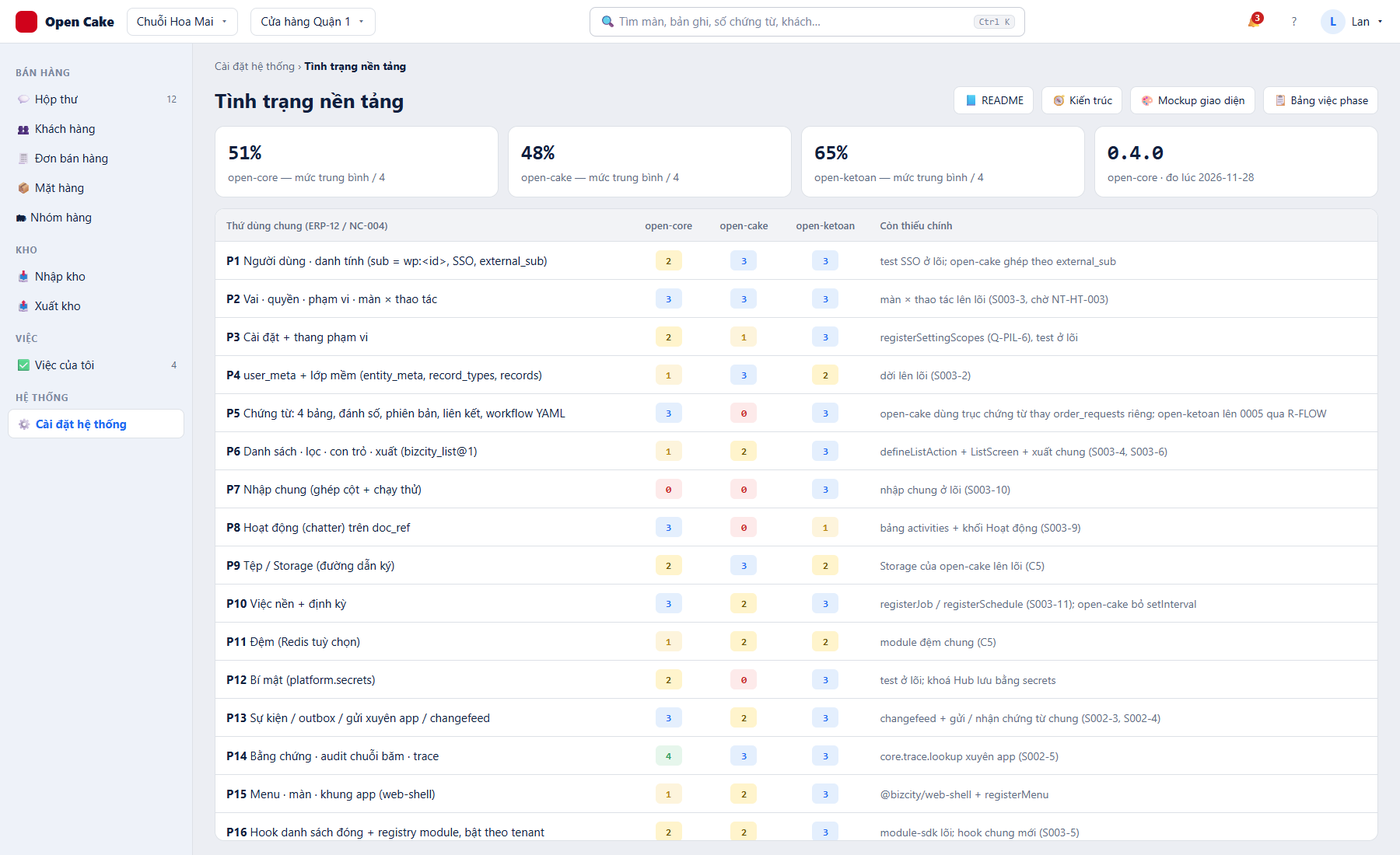
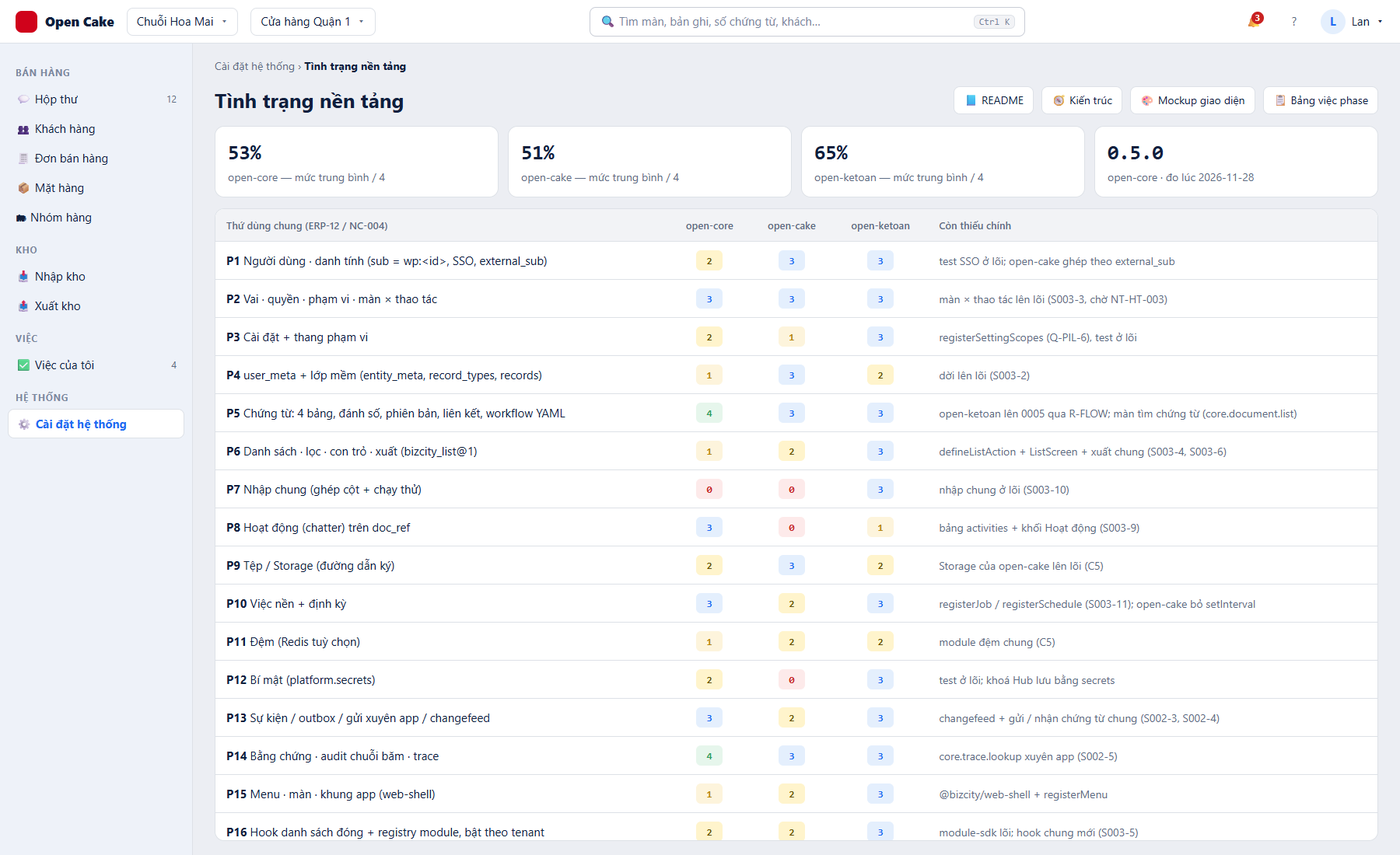
docs(scoreboard): chứng từ — open-cake dùng trục (mức 3), open-core mức 4; open-core 53 %, open-cake 51 %

Changed region(s): [[0.4667, 0.2473, 0.9333, 0.9891], [0.3733, 0.1545, 0.4044, 0.1855]]

diff --git a/docs/ui/mockup-src/web-shell.html b/docs/ui/mockup-src/web-shell.html
@@ -697,7 +697,7 @@
   <span class="demo">Dữ liệu minh hoạ</span>
 </section>
 
-<script id="sb" type="application/json">{"$comment":"[2026-11-28 06:58 PM Johnny Chu - Chu Hoàng Anh] PHASE-003 S003-13 — scoreboard mã ↔ tài liệu (ERP-12 của NC-005, chi tiết 20 mục). Mức 0 chưa có · 1 mới tài liệu · 2 có một phần · 3 có mã + test ở app đó · 4 ở open-core, có test, app đang dùng. Đo lần đầu bằng rà soát chỉ đọc (open-core main 9be302f + nhánh 0.4.0, open-cake 7436d28, open-ketoan dev 0237a4d). Sửa tay khi có bằng chứng mới rồi chạy node tools/scoreboard.mjs.","version":"0.5.0","measuredAt":"2026-11-28","apps":["open-core","open-cake","open-ketoan"],"primitives":[{"id":"P1","erp":"E-1","name":"Người dùng · danh tính (sub = wp:<id>, SSO, external_sub)","levels":{"open-core":2,"open-cake":3,"open-ketoan":3},"evidence":{"open-core":"packages/platform/src/core/auth.ts, security/tokens.ts, db/migrations/0003_platform_external_sub.sql — open-cake đang dùng; chưa test SSO ở lõi","open-cake":"apps/api/src/auth/routes.ts (/api/v1/auth/wp-sso), test/auth.http.test.ts — chưa dùng external_sub","open-ketoan":"apps/api/src/modules/auth/wp-sso.ts, 0183_nguoi_dung_external_sub.sql, test/wp-sso-sub-aud.test.ts"},"gap":"test SSO ở lõi; open-cake ghép theo external_sub"},{"id":"P2","erp":"E-2","name":"Vai · quyền · phạm vi · màn × thao tác","levels":{"open-core":3,"open-cake":3,"open-ketoan":3},"evidence":{"open-core":"core/authz/*, roles.ts, 0002_platform_vai_theo_app.sql, test/roles.test.mjs, open-cake dùng (vai: mức 4) — màn × thao tác chưa có ở lõi (mức 1, S003-3 ⛔)","open-cake":"apps/api/src/auth/authz.ts, staff.ts, care/scope.ts, test/scope.http.test.ts","open-ketoan":"modules/access/man-hinh.ts, man-hinh-module.ts, test/phan-quyen-man-hinh.test.ts"},"gap":"màn × thao tác lên lõi (S003-3, chờ NT-HT-003)"},{"id":"P3","erp":"E-3","name":"Cài đặt + thang phạm vi","levels":{"open-core":2,"open-cake":1,"open-ketoan":3},"evidence":{"open-core":"core/settings.ts, setting_values ở 0001 — chưa test, thang còn cứng accounting_unit","open-cake":"db/migrations/0103_flex.sql (chỉ ghi chú dùng setting_values)","open-ketoan":"0074_gia_tri_cau_hinh.sql, test/cau-hinh-gia-tri.test.ts"},"gap":"registerSettingScopes (Q-PIL-6), test ở lõi"},{"id":"P4","erp":"E-3","name":"user_meta + lớp mềm (entity_meta, record_types, records)","levels":{"open-core":1,"open-cake":3,"open-ketoan":2},"evidence":{"open-core":"chỉ nhắc ở core/authz-manifest.ts; S003-2 ☐","open-cake":"0103_flex.sql, apps/api/src/records.ts, test/records.http.test.ts","open-ketoan":"entity_attributes theo ngày (0087, 0168), chưa có lớp mềm"},"gap":"dời lên lõi (S003-2)"},{"id":"P5","erp":"E-4","name":"Chứng từ: 4 bảng, đánh số, phiên bản, liên kết, workflow YAML","levels":{"open-core":3,"open-cake":0,"open-ketoan":3},"evidence":{"open-core":"core/documents.ts, document-spine.ts (defineDocumentType, tạo / sửa nháp / chuyển / lưu trữ, tiền tệ + tỷ giá), workflow.ts, 0005 — test/document-spine.test.mjs, test/workflow.test.mjs, test/documents-events.test.mjs (cấp số, phiên bản, DocLink, RLS) chạy thật trên Postgres; open-cake chưa dùng","open-cake":"—","open-ketoan":"test/documents-common.test.ts, workflow.test.ts, dinh-kem-chung-tu.test.ts"},"gap":"open-cake dùng trục chứng từ thay order_requests riêng; open-ketoan lên 0005 qua R-FLOW"},{"id":"P6","erp":"E-5","name":"Danh sách · lọc · con trỏ · xuất (bizcity_list@1)","levels":{"open-core":1,"open-cake":2,"open-ketoan":3},"evidence":{"open-core":"chuẩn bizcity_list@1 0.2 (bizcity-platform #39), S003-4 ☐","open-cake":"con trỏ ở care/inbox.ts, screens/Contacts.tsx — chưa xuất","open-ketoan":"apps/web/src/components/DataGrid.tsx (xuất xlsx), test/excel-export-all.test.ts — khuôn riêng, chưa theo bizcity_list@1"},"gap":"defineListAction + ListScreen + xuất chung (S003-4, S003-6)"},{"id":"P7","erp":"E-5","name":"Nhập chung (ghép cột + chạy thử)","levels":{"open-core":0,"open-cake":0,"open-ketoan":3},"evidence":{"open-core":"","open-cake":"","open-ketoan":"modules/catalog/catalog-import.ts (dryRun), NhapExcelWizard.tsx, test/catalog-import.test.ts — riêng danh mục"},"gap":"nhập chung ở lõi (S003-10)"},{"id":"P8","erp":"E-6","name":"Hoạt động (chatter) trên doc_ref","levels":{"open-core":3,"open-cake":0,"open-ketoan":1},"evidence":{"open-core":"document_activities (0005, chỉ thêm) + documentSpine.note / activities, ctx.documents — test/document-spine.test.mjs; chưa màn web-shell","open-cake":"","open-ketoan":"chỉ notifications + document_attachments, chưa ghi chú / việc"},"gap":"bảng activities + khối Hoạt động (S003-9)"},{"id":"P9","erp":"E-7","name":"Tệp / Storage (đường dẫn ký)","levels":{"open-core":2,"open-cake":3,"open-ketoan":2},"evidence":{"open-core":"documents.ts lưu đĩa DATA_DIR — chưa đường dẫn ký","open-cake":"apps/api/src/storage/{local,s3,routes,sniff}.ts, 0109_files.sql, test/storage.test.ts, files.http.test.ts","open-ketoan":"đính kèm có test, chưa lớp storage / đường dẫn ký"},"gap":"Storage của open-cake lên lõi (C5)"},{"id":"P10","erp":"E-8","name":"Việc nền + định kỳ","levels":{"open-core":3,"open-cake":2,"open-ketoan":3},"evidence":{"open-core":"core/events.ts (tickClock, thử lại, dead) — thử lại → dead có test (test/documents-events.test.mjs); chưa API việc / lịch","open-cake":"3 vòng setInterval ở apps/api/src/server.ts:87-91 (trái luật 'chỉ một đồng hồ')","open-ketoan":"test/events.test.ts, modules/system/loi-he-thong.ts"},"gap":"registerJob / registerSchedule (S003-11); open-cake bỏ setInterval"},{"id":"P11","erp":"E-9","name":"Đệm (Redis tuỳ chọn)","levels":{"open-core":1,"open-cake":2,"open-ketoan":2},"evidence":{"open-core":"BIZCITY-CACHE-v1; chỉ đệm lẻ (module-registry 30 s, authz)","open-cake":"đệm lẻ ở orders/link.ts, partner.ts","open-ketoan":"đệm lẻ, test/site-cache.test.ts"},"gap":"module đệm chung (C5)"},{"id":"P12","erp":"E-10","name":"Bí mật (platform.secrets)","levels":{"open-core":2,"open-cake":0,"open-ketoan":3},"evidence":{"open-core":"core/secrets.ts, 0004_platform_secrets.sql — chưa test ở lõi","open-cake":"","open-ketoan":"0184_tenant_secrets.sql, test/secrets.test.ts"},"gap":"test ở lõi; khoá Hub lưu bằng secrets"},{"id":"P13","erp":"E-11","name":"Sự kiện / outbox / gửi xuyên app / changefeed","levels":{"open-core":3,"open-cake":2,"open-ketoan":3},"evidence":{"open-core":"core/events.ts (outbox, SKIP LOCKED) — outbox, dedupeKey, giao một lần, thử lại → dead có test chạy thật (test/documents-events.test.mjs); chưa registerSyncFeed","open-cake":"outbox riêng channel_commands (0106), chưa /api/v1/sync","open-ketoan":"modules/sync/sync.routes.ts, test/spine-changefeed.test.ts"},"gap":"changefeed + gửi / nhận chứng từ chung (S002-3, S002-4)"},{"id":"P14","erp":"E-11","name":"Bằng chứng · audit chuỗi băm · trace","levels":{"open-core":4,"open-cake":3,"open-ketoan":3},"evidence":{"open-core":"chuỗi băm ở 0001, test/nen-tang.test.mjs; core/tracing.ts, audit.ts — open-cake dùng tracing","open-cake":"apps/api/src/runtime.ts ghi audit_logs, test/evidence.http.test.ts","open-ketoan":"test/evidence.test.ts, evidence-seal.test.ts, truy-vet.test.ts"},"gap":"core.trace.lookup xuyên app (S002-5)"},{"id":"P15","erp":"E-12","name":"Menu · màn · khung app (web-shell)","levels":{"open-core":1,"open-cake":2,"open-ketoan":3},"evidence":{"open-core":"mockup docs/ui/mockup-src/web-shell.html (chờ duyệt); S003-3 ⛔, S003-6 ☐","open-cake":"apps/web/src/app/Shell.tsx, route.ts, permissions.tsx","open-ketoan":"apps/web/src/layout/menu.ts, SideNav.tsx, API man-hinh có test — khuôn riêng"},"gap":"@bizcity/web-shell + registerMenu"},{"id":"P16","erp":"E-12","name":"Hook danh sách đóng + registry module, bật theo tenant","levels":{"open-core":2,"open-cake":2,"open-ketoan":3},"evidence":{"open-core":"core/hooks.ts (1 hook), module-registry.ts — chưa test, open-cake chưa dùng","open-cake":"bizcity.app.json, bizcity.authz.json, test/authz-manifest.test.ts — chưa hook / bật module","open-ketoan":"test/module-lifecycle.test.ts, sdk-module-host.test.ts, packages/module-sdk"},"gap":"module-sdk lõi; hook chung mới (S003-5)"},{"id":"P17","erp":"—","name":"Nhiều site: registry, /_sites/v1, migration theo nguồn","levels":{"open-core":3,"open-cake":2,"open-ketoan":3},"evidence":{"open-core":"db/migrate.ts (source, coveredBy), test/migrate.test.mjs 8 ca, open-cake dùng (migration: mức 4) — route /_sites/v1 còn ở app (mức 2)","open-cake":"dùng migrate / site của lõi, chưa cấp site","open-ketoan":"modules/sites/provisioning.routes.ts, test/site-provisioner.test.ts, site-migrate.test.ts"},"gap":"/_sites/v1 khung vào @bizcity/server (NC-003 C7)"},{"id":"P18","erp":"—","name":"API: defineAction → REST + MCP, Idempotency-Key, danh mục lỗi","levels":{"open-core":3,"open-cake":3,"open-ketoan":3},"evidence":{"open-core":"core/actions.ts, errors.ts, http.ts — test/actions-runtime.test.mjs chạy thật (quyền, khuôn input, Idempotency-Key, bằng chứng, huỷ giao dịch, chạy thử); open-cake chỉ dùng errors / http","open-cake":"runtime.ts riêng (spec → REST, action_requests), packages/action-client test — chưa MCP","open-ketoan":"test/actions.test.ts, action-meta.test.ts, mcp.test.ts"},"gap":"test lõi; open-cake chuyển sang defineAction của lõi (C5)"},{"id":"P19","erp":"E-12","name":"Bốn bước kết nối open-hub (bizcity_hub_setup@1)","levels":{"open-core":1,"open-cake":2,"open-ketoan":1},"evidence":{"open-core":"chuẩn HUB-SETUP 0.1; chưa @bizcity/server, chưa /api/v1/setup/*","open-cake":"apps/web/src/screens/channel-setup/SetupSteps.tsx (4 bước Zalo) — chưa API chuẩn","open-ketoan":"chỉ thiết kế (CELL-CONNECT)"},"gap":"/api/v1/setup/* + SetupScreen"},{"id":"P20","erp":"E-12","name":"Hệ thiết kế giao diện: token, ui-kit, bốn trạng thái, i18n","levels":{"open-core":1,"open-cake":3,"open-ketoan":2},"evidence":{"open-core":"bizcity_ux@1 0.1 + mockup chờ duyệt; chưa gói ui-kit","open-cake":"packages/ui-kit/src/tokens.css, i18n/vi/*, test/i18n.test.ts, sc-cake-web.test.ts","open-ketoan":"packages/ui-kit/src/{grid,steps,doc-sheet}.tsx — chưa i18n"},"gap":"@bizcity/ui-kit + token một nguồn (S003-12)"}],"topGaps":["Mã chạy của lõi chưa có test ở open-core (actions, events, documents, workflow, settings, secrets, hooks) — chỉ được kiểm ở bản chép của open-ketoan ⇒ phát hành lõi có thể gãy âm thầm","open-cake chưa dùng runtime action / sự kiện / chứng từ của lõi (runtime.ts, outbox channel_commands, 3 setInterval riêng) ⇒ chuỗi cake → POS → kế toán chưa có đường chung","Chưa có khung changefeed ở lõi (registerSyncFeed) — /api/v1/sync chỉ ở open-ketoan","Danh sách chung (defineListAction, ListScreen, xuất CSV / XLSX / JSON) chưa có ở đâu theo bizcity_list@1","Chưa có web-shell / registry menu / màn ở lõi — khung và ui-kit của open-ketoan và open-cake đã tách nhau","Màn × thao tác chỉ có ở open-ketoan","Bốn bước kết nối open-hub chưa có API ở đâu","Lớp mềm (user_meta …) và Storage chỉ ở open-cake, chưa vào migration lõi","Nhập chung chỉ ở danh mục open-ketoan; chatter chưa có ở đâu","Hạ tầng chéo chưa đủ: đệm chung, API việc nền / lịch, thang phạm vi cài đặt cứng accounting_unit, /_sites/v1 còn ở app"]}</script>
+<script id="sb" type="application/json">{"$comment":"[2026-11-28 06:58 PM Johnny Chu - Chu Hoàng Anh] PHASE-003 S003-13 — scoreboard mã ↔ tài liệu (ERP-12 của NC-005, chi tiết 20 mục). Mức 0 chưa có · 1 mới tài liệu · 2 có một phần · 3 có mã + test ở app đó · 4 ở open-core, có test, app đang dùng. Đo lần đầu bằng rà soát chỉ đọc (open-core main 9be302f + nhánh 0.4.0, open-cake 7436d28, open-ketoan dev 0237a4d). Sửa tay khi có bằng chứng mới rồi chạy node tools/scoreboard.mjs.","version":"0.5.0","measuredAt":"2026-11-28","apps":["open-core","open-cake","open-ketoan"],"primitives":[{"id":"P1","erp":"E-1","name":"Người dùng · danh tính (sub = wp:<id>, SSO, external_sub)","levels":{"open-core":2,"open-cake":3,"open-ketoan":3},"evidence":{"open-core":"packages/platform/src/core/auth.ts, security/tokens.ts, db/migrations/0003_platform_external_sub.sql — open-cake đang dùng; chưa test SSO ở lõi","open-cake":"apps/api/src/auth/routes.ts (/api/v1/auth/wp-sso), test/auth.http.test.ts — chưa dùng external_sub","open-ketoan":"apps/api/src/modules/auth/wp-sso.ts, 0183_nguoi_dung_external_sub.sql, test/wp-sso-sub-aud.test.ts"},"gap":"test SSO ở lõi; open-cake ghép theo external_sub"},{"id":"P2","erp":"E-2","name":"Vai · quyền · phạm vi · màn × thao tác","levels":{"open-core":3,"open-cake":3,"open-ketoan":3},"evidence":{"open-core":"core/authz/*, roles.ts, 0002_platform_vai_theo_app.sql, test/roles.test.mjs, open-cake dùng (vai: mức 4) — màn × thao tác chưa có ở lõi (mức 1, S003-3 ⛔)","open-cake":"apps/api/src/auth/authz.ts, staff.ts, care/scope.ts, test/scope.http.test.ts","open-ketoan":"modules/access/man-hinh.ts, man-hinh-module.ts, test/phan-quyen-man-hinh.test.ts"},"gap":"màn × thao tác lên lõi (S003-3, chờ NT-HT-003)"},{"id":"P3","erp":"E-3","name":"Cài đặt + thang phạm vi","levels":{"open-core":2,"open-cake":1,"open-ketoan":3},"evidence":{"open-core":"core/settings.ts, setting_values ở 0001 — chưa test, thang còn cứng accounting_unit","open-cake":"db/migrations/0103_flex.sql (chỉ ghi chú dùng setting_values)","open-ketoan":"0074_gia_tri_cau_hinh.sql, test/cau-hinh-gia-tri.test.ts"},"gap":"registerSettingScopes (Q-PIL-6), test ở lõi"},{"id":"P4","erp":"E-3","name":"user_meta + lớp mềm (entity_meta, record_types, records)","levels":{"open-core":1,"open-cake":3,"open-ketoan":2},"evidence":{"open-core":"chỉ nhắc ở core/authz-manifest.ts; S003-2 ☐","open-cake":"0103_flex.sql, apps/api/src/records.ts, test/records.http.test.ts","open-ketoan":"entity_attributes theo ngày (0087, 0168), chưa có lớp mềm"},"gap":"dời lên lõi (S003-2)"},{"id":"P5","erp":"E-4","name":"Chứng từ: 4 bảng, đánh số, phiên bản, liên kết, workflow YAML","levels":{"open-core":4,"open-cake":3,"open-ketoan":3},"evidence":{"open-core":"core/documents.ts, document-spine.ts (defineDocumentType, tạo / sửa nháp / chuyển / lưu trữ, tiền tệ + tỷ giá), workflow.ts, 0005 — test/document-spine.test.mjs, test/workflow.test.mjs, test/documents-events.test.mjs (cấp số, phiên bản, DocLink, RLS) chạy thật trên Postgres; open-cake chưa dùng","open-cake":"apps/api/src/orders/document.ts — yêu cầu đặt hàng phản chiếu lên trục chứng từ (đầu phiếu + hoạt động), test/orders.http.test.ts; chưa dùng cấp số / workflow của lõi (trạng thái do cửa hàng gửi về)","open-ketoan":"test/documents-common.test.ts, workflow.test.ts, dinh-kem-chung-tu.test.ts"},"gap":"open-ketoan lên 0005 qua R-FLOW; màn tìm chứng từ (core.document.list)"},{"id":"P6","erp":"E-5","name":"Danh sách · lọc · con trỏ · xuất (bizcity_list@1)","levels":{"open-core":1,"open-cake":2,"open-ketoan":3},"evidence":{"open-core":"chuẩn bizcity_list@1 0.2 (bizcity-platform #39), S003-4 ☐","open-cake":"con trỏ ở care/inbox.ts, screens/Contacts.tsx — chưa xuất","open-ketoan":"apps/web/src/components/DataGrid.tsx (xuất xlsx), test/excel-export-all.test.ts — khuôn riêng, chưa theo bizcity_list@1"},"gap":"defineListAction + ListScreen + xuất chung (S003-4, S003-6)"},{"id":"P7","erp":"E-5","name":"Nhập chung (ghép cột + chạy thử)","levels":{"open-core":0,"open-cake":0,"open-ketoan":3},"evidence":{"open-core":"","open-cake":"","open-ketoan":"modules/catalog/catalog-import.ts (dryRun), NhapExcelWizard.tsx, test/catalog-import.test.ts — riêng danh mục"},"gap":"nhập chung ở lõi (S003-10)"},{"id":"P8","erp":"E-6","name":"Hoạt động (chatter) trên doc_ref","levels":{"open-core":3,"open-cake":0,"open-ketoan":1},"evidence":{"open-core":"document_activities (0005, chỉ thêm) + documentSpine.note / activities, ctx.documents — test/document-spine.test.mjs; chưa màn web-shell","open-cake":"","open-ketoan":"chỉ notifications + document_attachments, chưa ghi chú / việc"},"gap":"bảng activities + khối Hoạt động (S003-9)"},{"id":"P9","erp":"E-7","name":"Tệp / Storage (đường dẫn ký)","levels":{"open-core":2,"open-cake":3,"open-ketoan":2},"evidence":{"open-core":"documents.ts lưu đĩa DATA_DIR — chưa đường dẫn ký","open-cake":"apps/api/src/storage/{local,s3,routes,sniff}.ts, 0109_files.sql, test/storage.test.ts, files.http.test.ts","open-ketoan":"đính kèm có test, chưa lớp storage / đường dẫn ký"},"gap":"Storage của open-cake lên lõi (C5)"},{"id":"P10","erp":"E-8","name":"Việc nền + định kỳ","levels":{"open-core":3,"open-cake":2,"open-ketoan":3},"evidence":{"open-core":"core/events.ts (tickClock, thử lại, dead) — thử lại → dead có test (test/documents-events.test.mjs); chưa API việc / lịch","open-cake":"3 vòng setInterval ở apps/api/src/server.ts:87-91 (trái luật 'chỉ một đồng hồ')","open-ketoan":"test/events.test.ts, modules/system/loi-he-thong.ts"},"gap":"registerJob / registerSchedule (S003-11); open-cake bỏ setInterval"},{"id":"P11","erp":"E-9","name":"Đệm (Redis tuỳ chọn)","levels":{"open-core":1,"open-cake":2,"open-ketoan":2},"evidence":{"open-core":"BIZCITY-CACHE-v1; chỉ đệm lẻ (module-registry 30 s, authz)","open-cake":"đệm lẻ ở orders/link.ts, partner.ts","open-ketoan":"đệm lẻ, test/site-cache.test.ts"},"gap":"module đệm chung (C5)"},{"id":"P12","erp":"E-10","name":"Bí mật (platform.secrets)","levels":{"open-core":2,"open-cake":0,"open-ketoan":3},"evidence":{"open-core":"core/secrets.ts, 0004_platform_secrets.sql — chưa test ở lõi","open-cake":"","open-ketoan":"0184_tenant_secrets.sql, test/secrets.test.ts"},"gap":"test ở lõi; khoá Hub lưu bằng secrets"},{"id":"P13","erp":"E-11","name":"Sự kiện / outbox / gửi xuyên app / changefeed","levels":{"open-core":3,"open-cake":2,"open-ketoan":3},"evidence":{"open-core":"core/events.ts (outbox, SKIP LOCKED) — outbox, dedupeKey, giao một lần, thử lại → dead có test chạy thật (test/documents-events.test.mjs); chưa registerSyncFeed","open-cake":"outbox riêng channel_commands (0106), chưa /api/v1/sync","open-ketoan":"modules/sync/sync.routes.ts, test/spine-changefeed.test.ts"},"gap":"changefeed + gửi / nhận chứng từ chung (S002-3, S002-4)"},{"id":"P14","erp":"E-11","name":"Bằng chứng · audit chuỗi băm · trace","levels":{"open-core":4,"open-cake":3,"open-ketoan":3},"evidence":{"open-core":"chuỗi băm ở 0001, test/nen-tang.test.mjs; core/tracing.ts, audit.ts — open-cake dùng tracing","open-cake":"apps/api/src/runtime.ts ghi audit_logs, test/evidence.http.test.ts","open-ketoan":"test/evidence.test.ts, evidence-seal.test.ts, truy-vet.test.ts"},"gap":"core.trace.lookup xuyên app (S002-5)"},{"id":"P15","erp":"E-12","name":"Menu · màn · khung app (web-shell)","levels":{"open-core":1,"open-cake":2,"open-ketoan":3},"evidence":{"open-core":"mockup docs/ui/mockup-src/web-shell.html (chờ duyệt); S003-3 ⛔, S003-6 ☐","open-cake":"apps/web/src/app/Shell.tsx, route.ts, permissions.tsx","open-ketoan":"apps/web/src/layout/menu.ts, SideNav.tsx, API man-hinh có test — khuôn riêng"},"gap":"@bizcity/web-shell + registerMenu"},{"id":"P16","erp":"E-12","name":"Hook danh sách đóng + registry module, bật theo tenant","levels":{"open-core":2,"open-cake":2,"open-ketoan":3},"evidence":{"open-core":"core/hooks.ts (1 hook), module-registry.ts — chưa test, open-cake chưa dùng","open-cake":"bizcity.app.json, bizcity.authz.json, test/authz-manifest.test.ts — chưa hook / bật module","open-ketoan":"test/module-lifecycle.test.ts, sdk-module-host.test.ts, packages/module-sdk"},"gap":"module-sdk lõi; hook chung mới (S003-5)"},{"id":"P17","erp":"—","name":"Nhiều site: registry, /_sites/v1, migration theo nguồn","levels":{"open-core":3,"open-cake":2,"open-ketoan":3},"evidence":{"open-core":"db/migrate.ts (source, coveredBy), test/migrate.test.mjs 8 ca, open-cake dùng (migration: mức 4) — route /_sites/v1 còn ở app (mức 2)","open-cake":"dùng migrate / site của lõi, chưa cấp site","open-ketoan":"modules/sites/provisioning.routes.ts, test/site-provisioner.test.ts, site-migrate.test.ts"},"gap":"/_sites/v1 khung vào @bizcity/server (NC-003 C7)"},{"id":"P18","erp":"—","name":"API: defineAction → REST + MCP, Idempotency-Key, danh mục lỗi","levels":{"open-core":3,"open-cake":3,"open-ketoan":3},"evidence":{"open-core":"core/actions.ts, errors.ts, http.ts — test/actions-runtime.test.mjs chạy thật (quyền, khuôn input, Idempotency-Key, bằng chứng, huỷ giao dịch, chạy thử); open-cake chỉ dùng errors / http","open-cake":"runtime.ts riêng (spec → REST, action_requests), packages/action-client test — chưa MCP","open-ketoan":"test/actions.test.ts, action-meta.test.ts, mcp.test.ts"},"gap":"test lõi; open-cake chuyển sang defineAction của lõi (C5)"},{"id":"P19","erp":"E-12","name":"Bốn bước kết nối open-hub (bizcity_hub_setup@1)","levels":{"open-core":1,"open-cake":2,"open-ketoan":1},"evidence":{"open-core":"chuẩn HUB-SETUP 0.1; chưa @bizcity/server, chưa /api/v1/setup/*","open-cake":"apps/web/src/screens/channel-setup/SetupSteps.tsx (4 bước Zalo) — chưa API chuẩn","open-ketoan":"chỉ thiết kế (CELL-CONNECT)"},"gap":"/api/v1/setup/* + SetupScreen"},{"id":"P20","erp":"E-12","name":"Hệ thiết kế giao diện: token, ui-kit, bốn trạng thái, i18n","levels":{"open-core":1,"open-cake":3,"open-ketoan":2},"evidence":{"open-core":"bizcity_ux@1 0.1 + mockup chờ duyệt; chưa gói ui-kit","open-cake":"packages/ui-kit/src/tokens.css, i18n/vi/*, test/i18n.test.ts, sc-cake-web.test.ts","open-ketoan":"packages/ui-kit/src/{grid,steps,doc-sheet}.tsx — chưa i18n"},"gap":"@bizcity/ui-kit + token một nguồn (S003-12)"}],"topGaps":["Mã chạy của lõi chưa có test ở open-core (actions, events, documents, workflow, settings, secrets, hooks) — chỉ được kiểm ở bản chép của open-ketoan ⇒ phát hành lõi có thể gãy âm thầm","open-cake chưa dùng runtime action / sự kiện / chứng từ của lõi (runtime.ts, outbox channel_commands, 3 setInterval riêng) ⇒ chuỗi cake → POS → kế toán chưa có đường chung","Chưa có khung changefeed ở lõi (registerSyncFeed) — /api/v1/sync chỉ ở open-ketoan","Danh sách chung (defineListAction, ListScreen, xuất CSV / XLSX / JSON) chưa có ở đâu theo bizcity_list@1","Chưa có web-shell / registry menu / màn ở lõi — khung và ui-kit của open-ketoan và open-cake đã tách nhau","Màn × thao tác chỉ có ở open-ketoan","Bốn bước kết nối open-hub chưa có API ở đâu","Lớp mềm (user_meta …) và Storage chỉ ở open-cake, chưa vào migration lõi","Nhập chung chỉ ở danh mục open-ketoan; chatter chưa có ở đâu","Hạ tầng chéo chưa đủ: đệm chung, API việc nền / lịch, thang phạm vi cài đặt cứng accounting_unit, /_sites/v1 còn ở app"]}</script>
 <script>
   const topHtml = document.getElementById('shell-top').innerHTML, navHtml = document.getElementById('shell-nav').innerHTML; // không đặt tên "top": trùng window.top
   document.querySelectorAll('[data-slot="top"]').forEach((e) => (e.outerHTML = topHtml));

diff --git a/docs/scoreboard/SCOREBOARD.md b/docs/scoreboard/SCOREBOARD.md
@@ -7,8 +7,8 @@
 
 | App | Mức trung bình |
 |---|---|
-| open-core | **51 %** |
-| open-cake | **48 %** |
+| open-core | **53 %** |
+| open-cake | **51 %** |
 | open-ketoan | **65 %** |
 
 | # | Thứ dùng chung | open-core | open-cake | open-ketoan | Còn thiếu chính |
@@ -17,7 +17,7 @@
 | P2 | Vai · quyền · phạm vi · màn × thao tác | **3** | **3** | **3** | màn × thao tác lên lõi (S003-3, chờ NT-HT-003) |
 | P3 | Cài đặt + thang phạm vi | **2** | **1** | **3** | registerSettingScopes (Q-PIL-6), test ở lõi |
 | P4 | user_meta + lớp mềm (entity_meta, record_types, records) | **1** | **3** | **2** | dời lên lõi (S003-2) |
-| P5 | Chứng từ: 4 bảng, đánh số, phiên bản, liên kết, workflow YAML | **3** | **0** | **3** | open-cake dùng trục chứng từ thay order_requests riêng; open-ketoan lên 0005 qua R-FLOW |
+| P5 | Chứng từ: 4 bảng, đánh số, phiên bản, liên kết, workflow YAML | **4** | **3** | **3** | open-ketoan lên 0005 qua R-FLOW; màn tìm chứng từ (core.document.list) |
 | P6 | Danh sách · lọc · con trỏ · xuất (bizcity_list@1) | **1** | **2** | **3** | defineListAction + ListScreen + xuất chung (S003-4, S003-6) |
 | P7 | Nhập chung (ghép cột + chạy thử) | **0** | **0** | **3** | nhập chung ở lõi (S003-10) |
 | P8 | Hoạt động (chatter) trên doc_ref | **3** | **0** | **1** | bảng activities + khối Hoạt động (S003-9) |
@@ -57,8 +57,8 @@
 - **open-ketoan** (2): entity_attributes theo ngày (0087, 0168), chưa có lớp mềm
 
 ### P5 Chứng từ: 4 bảng, đánh số, phiên bản, liên kết, workflow YAML
-- **open-core** (3): core/documents.ts, document-spine.ts (defineDocumentType, tạo / sửa nháp / chuyển / lưu trữ, tiền tệ + tỷ giá), workflow.ts, 0005 — test/document-spine.test.mjs, test/workflow.test.mjs, test/documents-events.test.mjs (cấp số, phiên bản, DocLink, RLS) chạy thật trên Postgres; open-cake chưa dùng
-- **open-cake** (0): —
+- **open-core** (4): core/documents.ts, document-spine.ts (defineDocumentType, tạo / sửa nháp / chuyển / lưu trữ, tiền tệ + tỷ giá), workflow.ts, 0005 — test/document-spine.test.mjs, test/workflow.test.mjs, test/documents-events.test.mjs (cấp số, phiên bản, DocLink, RLS) chạy thật trên Postgres; open-cake chưa dùng
+- **open-cake** (3): apps/api/src/orders/document.ts — yêu cầu đặt hàng phản chiếu lên trục chứng từ (đầu phiếu + hoạt động), test/orders.http.test.ts; chưa dùng cấp số / workflow của lõi (trạng thái do cửa hàng gửi về)
 - **open-ketoan** (3): test/documents-common.test.ts, workflow.test.ts, dinh-kem-chung-tu.test.ts
 
 ### P6 Danh sách · lọc · con trỏ · xuất (bizcity_list@1)

diff --git a/docs/phases/PHASE-003-KHUNG-QUAN-TRI-CHUNG/CHECKLIST.md b/docs/phases/PHASE-003-KHUNG-QUAN-TRI-CHUNG/CHECKLIST.md
@@ -19,7 +19,7 @@
 | S003-11 | việc nền + định kỳ | ☐ |
 | S003-12 | `bizcity_ux@1` — token, khung, màn mẫu (f1–f20 chủ đã duyệt 2026-11-28; Q-UX-1 theo mockup) | ◐ |
 | S003-13 | scoreboard + màn Tình trạng nền tảng | ◐ |
-| S003-14 | trục chứng từ: `defineDocumentType`, meta đầu phiếu (`business_documents.meta`, khoá khai trong loại — không thêm bảng), `document_versions`, `document_activities` (NC-007 §3) | ◐ lõi xong: 0005, `document-spine.ts`, `ctx.documents.create / update / transition / note / archive / restore`, test 6 ca; còn màn + open-cake / open-ketoan dùng |
+| S003-14 | trục chứng từ: `defineDocumentType`, meta đầu phiếu (`business_documents.meta`, khoá khai trong loại — không thêm bảng), `document_versions`, `document_activities` (NC-007 §3) | ◐ lõi xong: 0005, `document-spine.ts`, `ctx.documents.create / update / transition / note / archive / restore`, test 6 ca; 0.5.0 đã phát hành; open-cake dùng (yêu cầu đặt hàng, phản chiếu — chạy thật 199 / 199); còn màn + open-ketoan lên 0005 (R-FLOW) |
 | S003-15 | thanh công cụ + "Tất cả bộ lọc" + cây đơn vị trong `<ListScreen>`; `archive / restore / purge` (NC-007 §4) | ☐ |
 | S003-16 | `bizcity_issues@1` + màn Nhật ký & trace, Lỗi & sửa lỗi (NC-007 §5) | ☐ |
 | S003-17 | `media` + trình điều khiển S3-compatible (R2 / S3 / MinIO) + màn Media (NC-007 §6) | ☐ |
